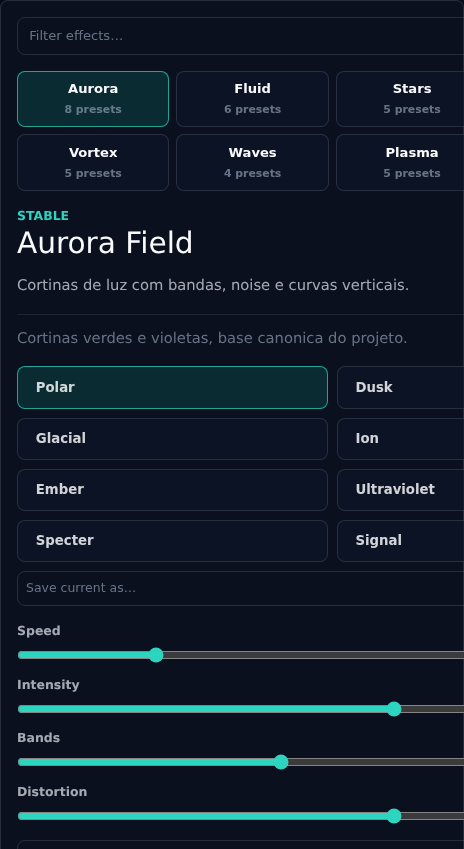
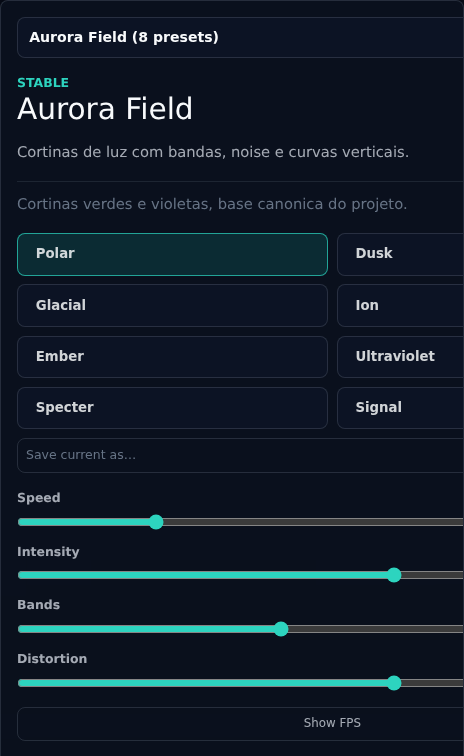
fix: update Playwright tests for select-based effect switcher
- Use selectOption(value) instead of button click for effect switching
- Update visual-check.spec.ts to use .effect-select dropdown
- Update visual-snapshots.spec.ts effect labels to match full names
- Regenerate baseline snapshot for new layout

diff --git a/tests/visual-snapshots.spec.ts b/tests/visual-snapshots.spec.ts
@@ -3,15 +3,15 @@ import { expect, test } from '@playwright/test';
 import { captureFailures, readCanvasStats } from './visual-helpers';
 
 const effects = [
-  { id: 'aurora', label: 'Aurora', preset: 'Dusk' },
-  { id: 'fluid-gradient', label: 'Fluid', preset: 'Ember' },
-  { id: 'particle-galaxy', label: 'Galaxy', preset: 'Nebula' },
-  { id: 'starfield', label: 'Stars', preset: 'Cruise' },
-  { id: 'vortex', label: 'Vortex', preset: 'Whirlpool' },
-  { id: 'wave-plane', label: 'Waves', preset: 'Ocean' },
-  { id: 'plasma', label: 'Plasma', preset: 'Nebula' },
-  { id: 'geometric', label: 'Geo', preset: 'Nebula Knot' },
-  { id: 'lava-lamp', label: 'Lava', preset: 'Retro' },
+  { id: 'aurora', label: 'Aurora Field', preset: 'Dusk' },
+  { id: 'fluid-gradient', label: 'Fluid Gradient', preset: 'Ember' },
+  { id: 'particle-galaxy', label: 'Particle Galaxy', preset: 'Nebula' },
+  { id: 'starfield', label: 'Starfield 3D', preset: 'Cruise' },
+  { id: 'vortex', label: 'Spiral Vortex', preset: 'Whirlpool' },
+  { id: 'wave-plane', label: 'Wave Plane', preset: 'Ocean' },
+  { id: 'plasma', label: 'Plasma Field', preset: 'Nebula' },
+  { id: 'geometric', label: 'Geometric Shape', preset: 'Nebula Knot' },
+  { id: 'lava-lamp', label: 'Lava Lamp', preset: 'Retro' },
 ] as const;
 
 async function waitForNonblankCanvas(page: import('@playwright/test').Page, retries = 3) {
@@ -52,12 +52,7 @@ test.describe('visual snapshots', () => {
       await page.waitForTimeout(1500);
 
       const playground = page.locator('#playground');
-      const tab = playground.getByRole('button', { name: new RegExp(effect.label, 'i') });
-
-      if (await tab.isVisible()) {
-        await tab.click();
-        await page.waitForTimeout(1500);
-      }
+      await playground.locator('.effect-select').selectOption(effect.id);
 
       const canvasDone = page.locator('.nebula-canvas').first();
       await expect(canvasDone).toBeAttached({ timeout: 10_000 });

diff --git a/tests/visual-check.spec.ts b/tests/visual-check.spec.ts
@@ -36,14 +36,13 @@ test('effect discovery and playground switching work', async ({ page }) => {
   await page.getByRole('link', { name: 'Open Fluid Gradient' }).click();
   const playground = page.locator('#playground');
   await expect(playground.getByRole('heading', { name: 'Fluid Gradient' })).toBeVisible();
-  await playground
-    .locator('[aria-label="Effect selection"]')
-    .getByRole('button', { name: 'Plasma' })
-    .click();
+
+  await playground.locator('.effect-select').selectOption('plasma');
   await expect(playground.getByLabel('React usage snippet')).toContainText('PlasmaEffect');
 
-  await playground.getByRole('button', { name: /Stars/ }).click();
-  await playground.getByRole('button', { name: 'Warp' }).click();
+  await playground.locator('.effect-select').selectOption('starfield');
+  const presetGrid = playground.locator('.preset-grid');
+  await presetGrid.getByRole('button', { name: 'Cruise' }).click();
   await expect(playground.getByLabel('React usage snippet')).toContainText('StarfieldEffect');
 
   await page.waitForTimeout(1500);